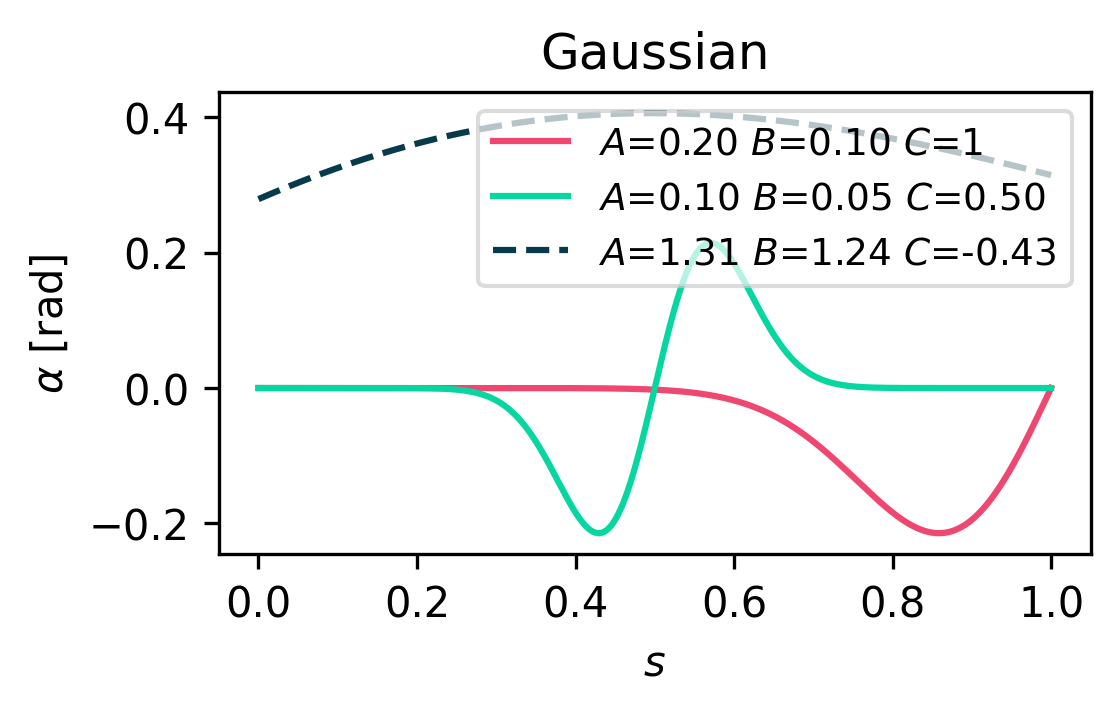
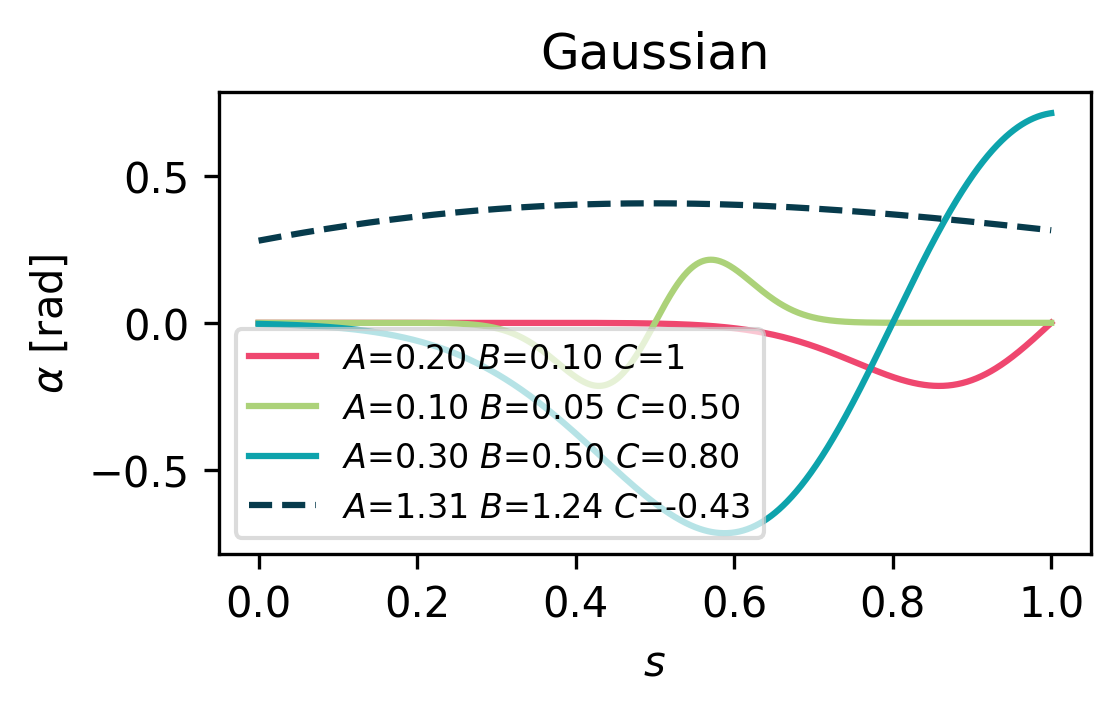
figs minor

diff --git a/Media/Activation_Plots.py b/Media/Activation_Plots.py
@@ -66,7 +66,7 @@ def plot_logistic():
 
     plt.ylabel('$\\alpha$ [rad]')
     plt.xlabel('$s$')
-    plt.legend(fontsize=9, framealpha=0.7, loc='upper left')
+    plt.legend(fontsize=8, framealpha=0.7, loc='upper left')
     #title
     plt.title('Logistic')
     #save
@@ -79,6 +79,7 @@ def plot_gaussian():
 
     params = [[0.01, 0.2,      0.1, 1],
               [0.01, 0.1,      0.05, 0.5],
+              [0.01, 0.3,      0.5, 0.8],
               TunableParameters.GAUSSIAN_PARAMS,
             ]
     
@@ -105,7 +106,7 @@ def plot_gaussian():
 
     plt.ylabel('$\\alpha$ [rad]')
     plt.xlabel('$s$')
-    plt.legend(fontsize=9, framealpha=0.7)#, loc='upper right')
+    plt.legend(fontsize=8, framealpha=0.7)#, loc='upper right')
     #title
     plt.title('Gaussian')
     plt.savefig(f'{_folders.MEDIA_PATH}/Gaussian.png', dpi=300, bbox_inches='tight')
@@ -117,7 +118,7 @@ def plot_fourier():
     S = np.linspace(0, 2*np.pi, 1000)
     np.random.seed(456)
 
-    params = [TunableParameters.FOURIER_PARAMS + np.random.uniform(-1, 1, 1 + 1 + 2*TunableParameters.FOURIER_TERMS)*0.5 for _ in range(2)]
+    params = [TunableParameters.FOURIER_PARAMS + np.random.uniform(-1, 1, 1 + 1 + 2*TunableParameters.FOURIER_TERMS)*0.5 for _ in range(3)]
     params.append(TunableParameters.FOURIER_PARAMS)
     palette = _colors.create_palette(len(params))
     
@@ -195,6 +196,6 @@ if __name__ == "__main__":
     TunableParameters.set_params()
 
     plot_lambdas()
-    #plot_logistic()
-    #plot_gaussian()
-    #plot_fourier()
+    plot_logistic()
+    plot_gaussian()
+    plot_fourier()
